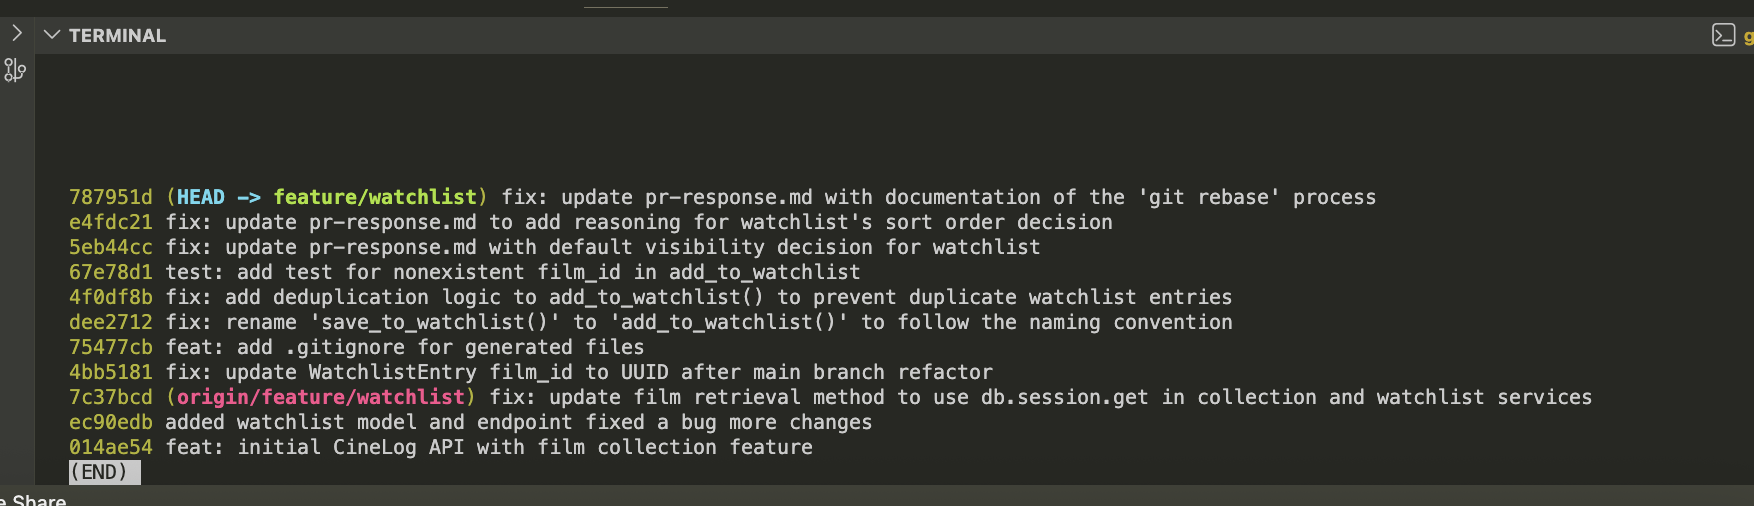
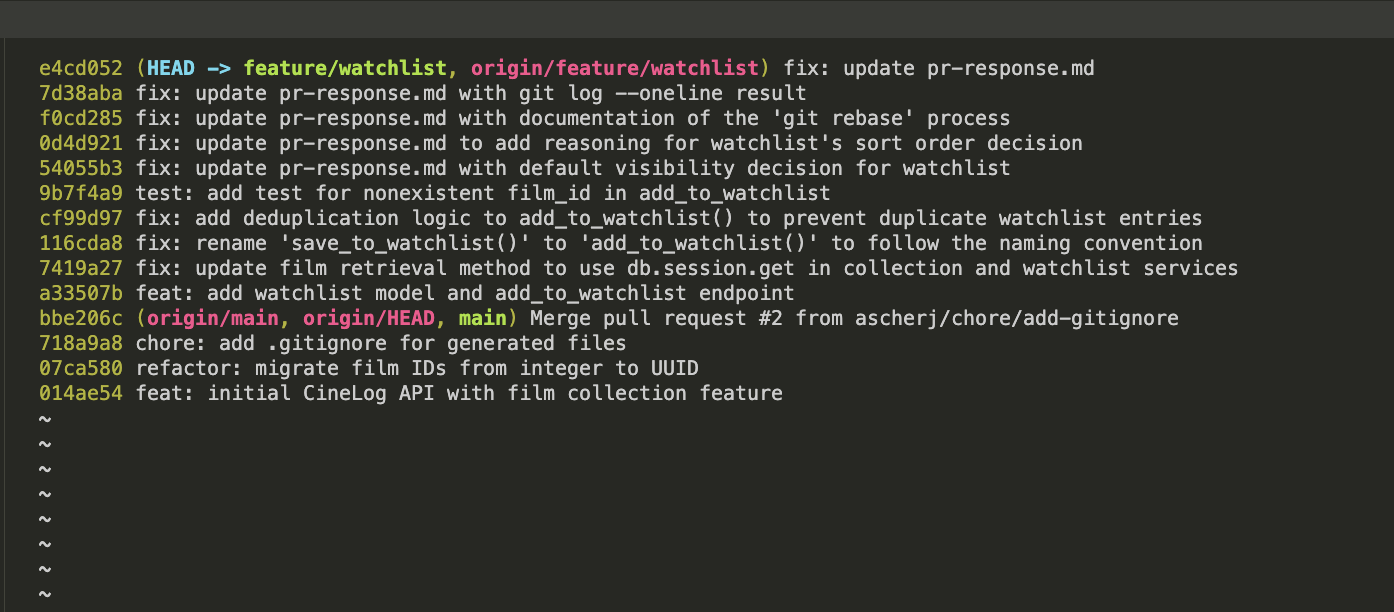
fix: update git log --oneline result in pr-response.md

Changed region(s): [[0.0, 0.0593, 0.9254, 1.0], [0.9562, 0.0593, 1.0, 0.0889], [0.9871, 0.9486, 1.0, 0.9783]]

diff --git a/pr-response.md b/pr-response.md
@@ -106,16 +106,19 @@ Two files conflicted during the 8-commit rebase:
 ![git log --oneline](git%20logs.png)
 
 ```
-787951d (HEAD -> feature/watchlist) fix: update pr-response.md with documentation of the 'git rebase' process
-e4fdc21 fix: update pr-response.md to add reasoning for watchlist's sort order decision
-5eb44cc fix: update pr-response.md with default visibility decision for watchlist
-67e78d1 test: add test for nonexistent film_id in add_to_watchlist
-4f0df8b fix: add deduplication logic to add_to_watchlist() to prevent duplicate watchlist entries
-dee2712 fix: rename 'save_to_watchlist()' to 'add_to_watchlist()' to follow the naming convention
-75477cb feat: add .gitignore for generated files
-4bb5181 fix: update WatchlistEntry film_id to UUID after main branch refactor
-7c37bcd (origin/feature/watchlist) fix: update film retrieval method to use db.session.get in collection and watchlist services
-ec90edb added watchlist model and endpoint fixed a bug more changes
+e4cd052 (HEAD -> feature/watchlist, origin/feature/watchlist) fix: update pr-response.md
+7d38aba fix: update pr-response.md with git log --oneline result
+f0cd285 fix: update pr-response.md with documentation of the 'git rebase' process
+0d4d921 fix: update pr-response.md to add reasoning for watchlist's sort order decision
+54055b3 fix: update pr-response.md with default visibility decision for watchlist
+9b7f4a9 test: add test for nonexistent film_id in add_to_watchlist
+cf99d97 fix: add deduplication logic to add_to_watchlist() to prevent duplicate watchlist entries
+116cda8 fix: rename 'save_to_watchlist()' to 'add_to_watchlist()' to follow the naming convention
+7419a27 fix: update film retrieval method to use db.session.get in collection and watchlist services
+a33507b feat: add watchlist model and add_to_watchlist endpoint
+bbe206c (origin/main, origin/HEAD, main) Merge pull request #2 from ascherj/chore/add-gitignore
+718a9a8 chore: add .gitignore for generated files
+07ca580 refactor: migrate film IDs from integer to UUID
 014ae54 feat: initial CineLog API with film collection feature
 ```
 
